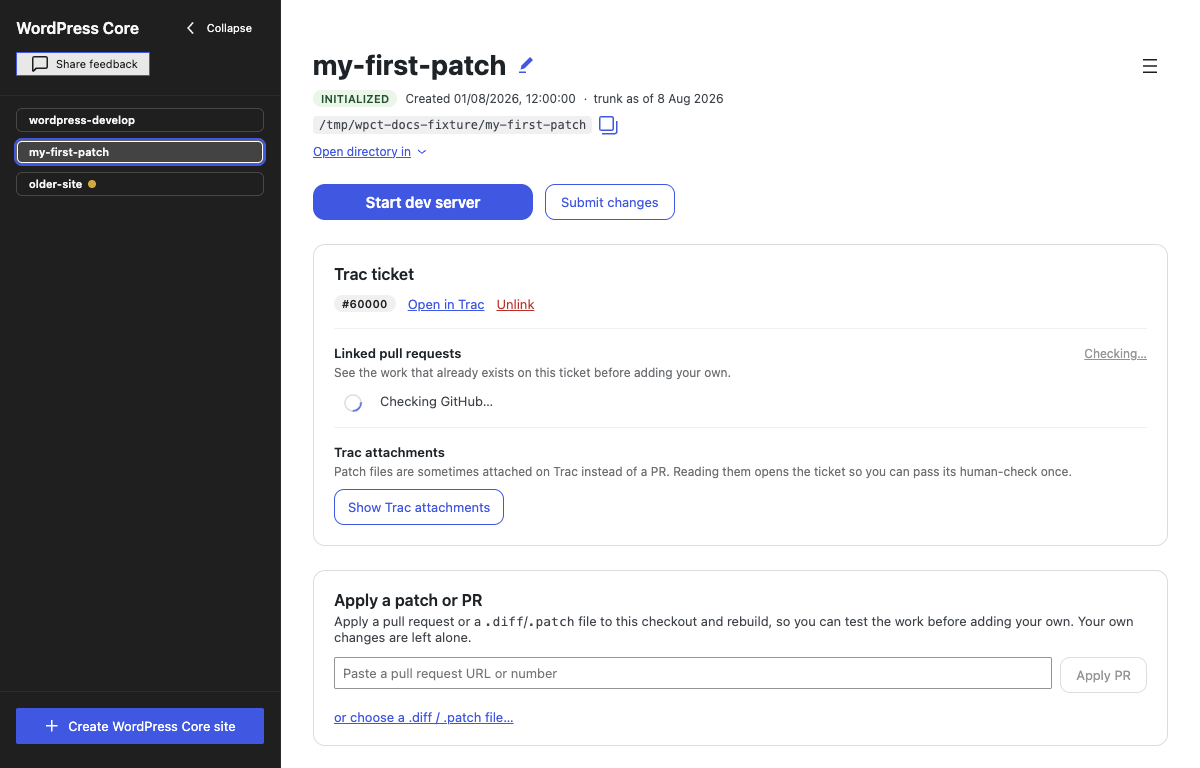
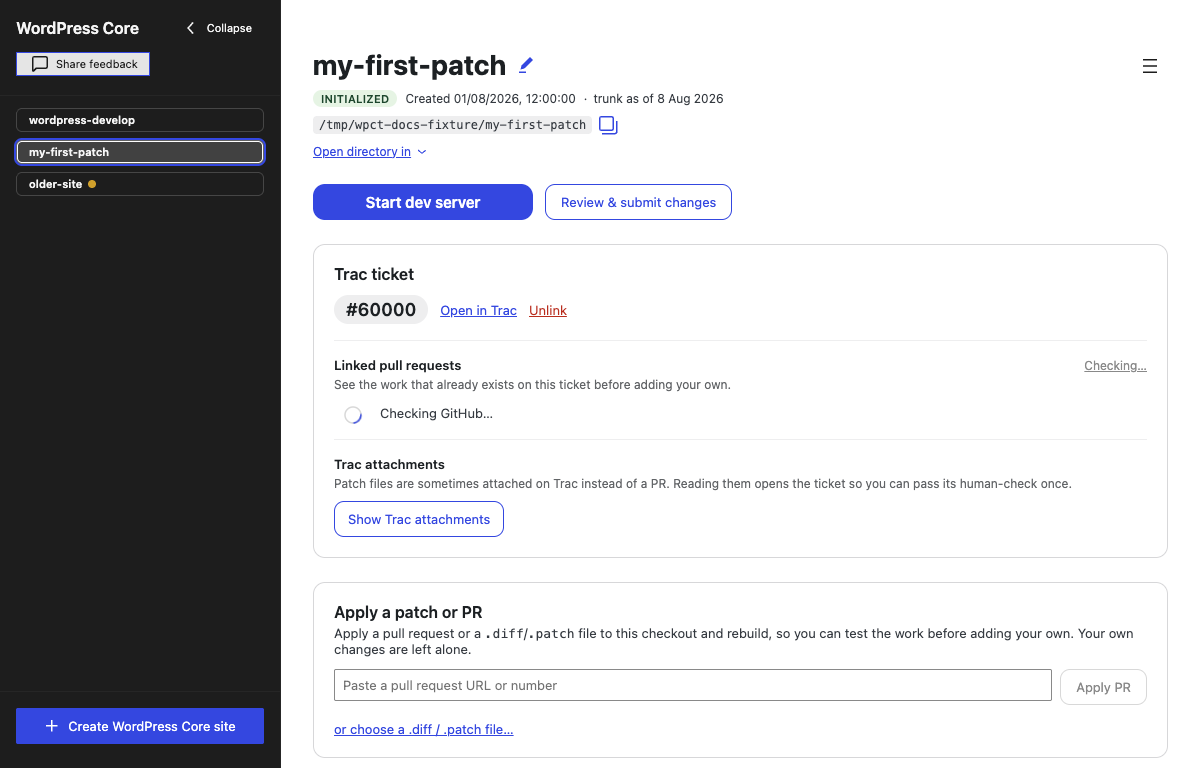
Document the site-holds-many-tickets model, and correct the guide pages that predate it (#245)
> [!WARNING]
> **Do not merge this before the ticket-branches stack (#168 #185 #198
#205 #218 #238 #241 #242 #243).** It documents features that are not on
trunk yet. Merged first, the published guide describes an app nobody can
download.

## Why

The user guide describes a site as one working tree and one implicit
patch, because that is what the app was when the guide was written. The
ticket-branches stack makes a ticket a branch on the site, which leaves
several pages not merely incomplete but wrong: what a patch contains,
what **Unlink** costs you, what a trunk update does to work in progress,
whether the applied-patch banner describes the ticket you are looking
at.

The stack also adds surface nothing documents at all — the tickets card,
the question asked about edits made before a ticket was picked, the note
about unsubmitted work, the switch progress line, coloured pull request
states.

## What changes

Docs only. The diff is `docs/` — guide pages,
`docs/.vitepress/config.mjs` for the sidebar, and screenshots. No
`src/`, no `scripts/`.

**New page: `guide/ticket-branches.md`, "Working on several tickets".**
The model (a site is the expensive substrate, a ticket is a cheap
branch), starting a second ticket, the tickets card in both its states,
what a switch says while it runs and what to do when one fails part-way,
deleting one ticket's work, the four-choice question about loose trunk
edits, the unsubmitted-work note, and what a ticket's patch does and
[…]

diff --git a/docs/guide/ticket-branches.md b/docs/guide/ticket-branches.md
@@ -1,0 +1,100 @@
+# Working on several tickets
+
+You do not need a second site to work on a second ticket.
+
+A site is the expensive part: a clone of `wordpress-develop`, an `npm install`, and a first build — minutes of work, and the thing this app exists to spare you. A ticket is the cheap part. Each ticket you link gets its own branch inside the site, so moving between them is a file swap that takes seconds rather than another clone and another install.
+
+Each ticket keeps its own work. What you edited for one ticket is not in the tree while you are on another, and the patch you submit for a ticket contains only that ticket's changes.
+
+![A site with two tickets: the Trac ticket card for the one in hand, and an Other tickets on this site card under it](/screenshots/site-with-tickets.png)
+
+## Starting a second ticket
+
+While a ticket is linked, the **Trac ticket** panel shows that ticket rather than a field to type another one into. So starting a second ticket is two steps:
+
+1. Click **Unlink**. Your work on the first ticket is parked on its branch and the site returns to trunk — nothing is lost, and the ticket appears under **Your tickets on this site**.
+2. Type the second ticket's number into the field that is now back, and click **Link ticket**.
+
+Nothing is installed and nothing is rebuilt: `node_modules` and the database belong to the site, and both stay exactly as they are.
+
+The `build/` directory belongs to the site too, which has a consequence. A switch changes the source under `src/`, but it does not rebuild — so a dev server that is running keeps serving the assets built for the ticket you just left. Run `npm run build` in the [Terminal](./terminal) after switching if you want to see the other ticket's changes in the browser. The site view says the same thing: *Edited files in `src/`? Run `npm run build` so the site picks them up.*
+
+## Your tickets on this site
+
+The site's tickets get their own card, between the **Trac ticket** card and **Apply a patch or PR**. Like those two, it appears once the [setup checklist](./setup-wizard) is finished or skipped, and only when the site has work on a ticket other than the one you are on — a site with nothing else to offer does not get an empty card.
+
+With a ticket linked, the card is headed **Other tickets on this site**, and each row offers to **switch**:
+
+![The Other tickets on this site card: "You also have work on #61002 — switch", with "Delete this ticket's work" beside it](/screenshots/ticket-list-card.png)
+
+With no ticket linked, the same card is headed **Your tickets on this site**, and each row is a **Continue working on #NNNNN** link. This is how you come back to a ticket without having to remember its number:
+
+![The Your tickets on this site card, listing two tickets to continue working on, most recently used first](/screenshots/ticket-list-unlinked.png)
+
+Rows are listed most recently used first, with **edited 2 days ago** underneath — and after a week, the date itself. Every control on the card is disabled while an install, a build or a [trunk update](./trunk-updates) is running, because all three are writing to the same working directory a switch would swap.
+
+## What a switch says while it runs
+
+A switch is a scan of the working tree followed by a checkout. On a real `wordpress-develop` that is seconds, not minutes, but it is long enough that a silent window looks like a hung one — so the panel narrates it, under a spinner:
+
+- **Saving your work on #59234…** — the ticket you are leaving is being committed to its branch. This is the part worth waiting out: it is the stretch where your edits are written down.
+- **Checking which files change…**
+- **Swapping files for #61002… 63%**
+- **Ready to work on #61002**
+
+If the file swap itself fails part-way — an editor or an antivirus holding a file open is the usual cause — the app marks the site and refuses every further ticket action with *A previous switch from … to … did not finish. Retry it before making other changes*. The refusal is on the switch too, so the way out is **Unlink**, which is the one action it allows: that puts you back on trunk, and you can then link the ticket you wanted. Your work on the ticket you were leaving is not at risk; it was committed to its branch before any file moved.
+
+Do not force-quit during a switch. A killed process writes no such marker, so the half-swapped tree is left behind with nothing saying so.
+
+## Deleting a ticket's work
+
+**Delete this ticket's work**, on each row, throws that ticket's branch away — every change you made for it, whether or not you ever submitted it. It asks first: *Delete all work on #61002 on this site? This cannot be undone.* There is no undo afterwards.
+
+The card only lists tickets you are not on, so this is never offered for the ticket in hand. To throw away the one you are working on, **Unlink** it first; its row then appears with the rest.
+
+Deleting is deliberately a different gesture from switching, and from unlinking. **Unlink** on the **Trac ticket** panel only puts the site back on trunk: the ticket's work stays on its branch, and the ticket reappears under **Your tickets on this site**, ready to continue.
+
+## Edits you made before picking a ticket
+
+If you started editing before you linked a ticket, those edits are on trunk, which the app never commits to. So when you link a ticket, it stops and asks what should happen to them:
+
+![The question panel: "You have 1 uncommitted change on this site, not on any ticket yet. What should happen to them?" with four choices](/screenshots/trunk-work-question.png)
+
+- **Take these edits into #NNNNN** — the edits come along and become part of that ticket's work. This is the answer for *I started editing, then realised which ticket this is*.
+- **Save them as a patch, then start clean…** — the app asks where to save a `.diff`, then discards the edits and links the ticket. Cancelling the save dialog cancels the whole option and leaves everything as it was.
+- **Discard them and start clean** — the edits are lost; this cannot be undone, and it asks again before doing it.
+- **Cancel** — nothing happens. No branch is created and no ticket is linked.
+
+**Take these edits into #NNNNN** is offered only for a ticket this site has not worked on yet. A ticket that already has a branch has its own work waiting to be restored, so loose edits cannot ride into it; the panel says so, and the other three choices stay.
+
+When the edits do come along, the panel says where they went: *Your 1 uncommitted change came along into #62281, and will go into its patch.*
+
+![The Trac ticket card after the carry, with a blue notice confirming the edits came along into the ticket](/screenshots/carried-work-notice.png)
+
+If you saved them instead, the confirmation names the file — *Your edits were saved to … and are no longer in the working tree* — and stays on screen after the switch, so the path does not vanish with the panel that offered it.
+
+Linking a ticket from a clean tree asks nothing and shows nothing. There is a standing line under the **Link ticket** field to say the question exists: *If you have edited anything already, you will be asked what should happen to those edits.*
+
+## Unsubmitted work for the ticket you are on
+
+Once a ticket has changes that have not been submitted anywhere, the **Trac ticket** card says so:
+
+> You have 1 unsubmitted change for ticket #29798. You can **review and submit** or **discard your changes**.
+
+This counts the ticket's whole work — including everything parked when you last switched away, which is most of it if you move between tickets. It is measured the same way [the patch](./submitting-changes) is, so the note and the diff are two readings of one walk rather than two answers. The count is of everything the patch speaks about, which includes the files it can only [name rather than carry](./submitting-changes#what-a-patch-can-and-cannot-carry): change nothing but an image and the note still says one unsubmitted change, while the diff itself is empty.
+
+Under it is the reassurance that matters here: unlinking the ticket does not touch those changes. They stay attached to the ticket in this site, ready for when you link it again.
+
+## What a patch contains
+
+A patch is everything on the ticket's branch since the point it was created — only that ticket's work, never another's, and never a change that arrived from a trunk update.
+
+That last point has a consequence worth knowing. A ticket branch keeps the snapshot of trunk it was born on, even after you [update the site to the latest trunk](./trunk-updates). The patch stays correct against that snapshot, which is what keeps it free of upstream changes you did not write — but a branch you started weeks ago produces a patch that may no longer apply to today's trunk.
+
+The app has no way to replay an old ticket branch onto a newer trunk. Doing it by hand means, in order: [update the site to the latest trunk](./trunk-updates) so there is a newer snapshot to branch from; save the ticket's patch from **Review & submit changes**; **Unlink** the ticket, so its row appears on the tickets card and **Delete this ticket's work** becomes available for it — the card never offers to delete the ticket you are on; link the ticket again, which creates a fresh branch on the updated trunk; and [apply the saved patch](./applying-patches) to it.
+
+## Next steps
+
+- [Working on a Trac ticket](./trac-tickets)
+- [Submitting your changes](./submitting-changes)
+- [Staying up to date with trunk](./trunk-updates)

diff --git a/docs/guide/trac-tickets.md b/docs/guide/trac-tickets.md
@@ -13,18 +13,32 @@ The ticket is stored with the site, so it survives restarts. You can change or r
 
 If you do not have a ticket yet, click **Not sure yet? Browse good first bugs on Trac** to open Trac's curated ticket lists in your browser.
 
+Linking a ticket gives it its own branch inside the site, so the work you do for it is kept apart from every other ticket on that site. A site can hold as many tickets as you like — see [Working on several tickets](./ticket-branches).
+
+If you have edited anything before linking, the app asks what should happen to those edits rather than deciding for you. The four choices are described under [Edits you made before picking a ticket](./ticket-branches#edits-you-made-before-picking-a-ticket).
+
 Once a ticket is linked, the panel shows its number with two actions:
 
 - **Open in Trac** — opens the ticket in your browser.
-- **Unlink** — removes the link. Nothing on Trac is affected; only the app forgets the association.
+- **Unlink** — removes the link and puts the site back on trunk. Nothing on Trac is affected, and nothing you did for the ticket is lost: the work stays attached to the ticket in this site, and the ticket moves to the **Your tickets on this site** card, ready to continue.
+
+## Unsubmitted work
+
+When the linked ticket has changes you have not submitted anywhere, the panel says so — *You have 1 unsubmitted change for ticket #29798* — with links to **review and submit** or **discard your changes**.
+
+The count is the ticket's whole work, including everything parked when you last switched away from it, and it is measured the same way [the patch](./submitting-changes) is — the note and the diff read the same walk of your files.
 
 ## Linked pull requests
 
-The panel searches GitHub for pull requests on `WordPress/wordpress-develop` that cite the ticket number, and lists them newest first. Each row shows the PR number (click it to open the PR in your browser), its title, whether it is open or closed, and when it was last updated. Click **Refresh** to search again.
+The panel searches GitHub for pull requests on `WordPress/wordpress-develop` that cite the ticket number, and lists them newest first. Each row shows the PR number (click it to open the PR in your browser), its title, its state, and when it was last updated. Click **Refresh** to search again.
+
+![The Trac ticket panel with two linked pull requests, one carrying a red CLOSED pill and one a green OPEN pill](/screenshots/linked-pull-requests.png)
+
+The state is a coloured pill, in GitHub's own three colours: green **OPEN**, purple **MERGED**, red **CLOSED**. Red here is a label and not a warning — a closed pull request is an outcome, not a failure. Merged is rare on `wordpress-develop`, where a pull request is opened for review and the change usually lands as a commit instead.
 
 Each pull request has an **Apply…** button, which fetches its diff and shows you a preview before anything is changed — see [Applying patches and PRs](applying-patches).
 
-The search uses GitHub's unauthenticated API, which allows 60 requests per hour from your machine. If the limit is spent or you are offline, the panel says so and falls back to the last list it saw, noting when that was.
+The search uses GitHub's unauthenticated API, which allows 60 requests per hour from your machine. If the limit is spent or you are offline, the panel says so and falls back to the last list it saw, noting when that was. A pull request that changed state since then keeps its old pill until the next successful lookup.
 
 ## Trac attachments
 
@@ -45,5 +59,6 @@ When a ticket has both pull requests and attachments, the panel marks the most r
 
 ## Next steps
 
+- [Work on more than one ticket in the same site](ticket-branches)
 - [Apply a patch or PR to your site](applying-patches)
 - [Submit your own changes](submitting-changes)

diff --git a/docs/guide/submitting-changes.md b/docs/guide/submitting-changes.md
@@ -1,17 +1,34 @@
 # Submitting your changes
 
-When your change works and you want to contribute it, open the **Submit changes** screen. It shows your work as a patch and, next to it, the places that patch can go.
+When your change works and you want to contribute it, open the **Review & submit changes** screen. It shows your work as a patch and, next to it, the places that patch can go.
 
 ## Your changes
 
-The left side of the screen is the diff, titled **Your changes** — everything this site has that its copy of trunk does not. This is exactly what will be submitted, so read it before choosing a destination.
+The left side of the screen is the diff, titled **Your changes**. This is exactly what will be submitted, so read it before choosing a destination.
+
+What it contains is the work on the ticket you are on, and only that: everything the ticket's branch has gained since it was created, including whatever was parked the last time you switched away from it. Another ticket's work is never in it, and neither is a change that arrived from a [trunk update](trunk-updates). On a site with no ticket linked, it is simply everything the checkout has that its copy of trunk does not.
 
 Two buttons sit above the diff:
 
 - **Save** — saves the diff as a patch file wherever you choose.
 - **Copy** — copies the whole diff to the clipboard.
 
-If the site has no changes against its copy of trunk, the screen says there is nothing to send yet. If the site's WordPress code is old, a warning says the patch may not apply on Trac and suggests updating to the latest trunk first — see [Staying up to date with trunk](trunk-updates).
+If there are no changes to send, the screen says so. If the site's WordPress code is old, a warning says the patch may not apply on Trac and suggests updating to the latest trunk first — see [Staying up to date with trunk](trunk-updates).
+
+## What a patch can and cannot carry
+
+The patch carries files you added, files you edited, and files you deleted. A deletion is written the way `git apply` and `patch` expect one, so a reviewer applying your patch really does lose the file.
+
+Some things a text diff cannot represent. Images and other binary files are one, and so is a file the app could not read. Those are not dropped in silence: they are named in `#` comment lines above the diff, for example
+
+```
+# 1 file is not in this patch — a text diff cannot carry binary content:
+#   src/wp-includes/images/example.png
+```
+
+Tools that apply patches skip those lines, so the patch still applies; the point of them is that you know what to attach or mention by hand. If a binary file is the *only* thing you changed, there is no diff to attach and the screen offers no destination.
+
+The one gap left: adding or deleting an empty file is still not represented in the patch.
 
 ## Where this patch goes
 

diff --git a/docs/guide/submit-trac.md b/docs/guide/submit-trac.md
@@ -4,7 +4,7 @@
 
 ## What the app does, and what you do
 
-The app does not post to Trac on your behalf — that would mean it holding a WordPress.org session, which it deliberately never does. Instead, the destination on the [Submit changes](submitting-changes) screen splits the work:
+The app does not post to Trac on your behalf — that would mean it holding a WordPress.org session, which it deliberately never does. Instead, the destination on the [Review & submit changes](submitting-changes) screen splits the work:
 
 1. Click **Save, then open #NNNNN**.
 2. The app saves your patch as a file wherever you choose.
@@ -19,6 +19,8 @@ The saved file is the plain diff shown under **Your changes** — no header is a
 
 The card says there is nowhere to attach the patch yet, and offers the same field as the [Trac ticket panel](trac-tickets): type the ticket number or URL and click **Link ticket**. The ticket is stored with the site, and the **Save, then open** button appears in its place.
 
+It is the same field in every respect, so if you have edits that are not on any ticket yet, the same question appears here — see [Edits you made before picking a ticket](ticket-branches#edits-you-made-before-picking-a-ticket).
+
 ## What happens afterwards
 
 No automated checks run on a Trac attachment. It is common for a reviewer to then ask for the same change as a pull request, where the test suite runs — if that happens, the [pull request destination](submit-github-pr) sends the identical diff.
@@ -27,4 +29,4 @@ After uploading, leave a comment on the ticket saying what the patch does and ho
 
 ## Before you attach
 
-If the warning at the top of the **Submit changes** screen says your site's WordPress code is old, the patch may not apply cleanly on Trac. Update to the latest trunk first — see [Staying up to date with trunk](trunk-updates) — and check your change still works.
+If the warning at the top of the **Review & submit changes** screen says your site's WordPress code is old, the patch may not apply cleanly on Trac. Update to the latest trunk first — see [Staying up to date with trunk](trunk-updates) — and check your change still works.

diff --git a/docs/guide/managing-sites.md b/docs/guide/managing-sites.md
@@ -32,16 +32,18 @@ The ☰ menu at the top right of the site view contains:
   it stay on disk; you can add the folder back later.
 - **Delete this site** — removes the site from the list **and deletes its directory from disk**.
   This cannot be undone. The app will only ever delete a directory it has on record as a site —
-  never an arbitrary path.
+  never an arbitrary path. It takes every ticket's work in the site with it; to throw away one
+  ticket and keep the rest, use **Delete this ticket's work** on the tickets card instead — see
+  [Working on several tickets](./ticket-branches#deleting-a-ticket-s-work).
 
 Both **Forget** and **Delete** ask for confirmation first. If you are unsure which you want:
 forget is reversible, delete is not.
 
 ## Updating with uncommitted changes
 
-If you start **Update to latest trunk** while the site has local edits, the app does not silently
-throw them away. A dialog titled **Update to latest trunk?** lists every changed file and offers
-two choices:
+If you start **Update to latest trunk** while the site has edits loose in the working tree, the app
+does not silently throw them away. A dialog titled **Update to latest trunk?** lists every changed
+file and offers two choices:
 
 - **Save them as a patch first (as a local file)** — writes a `.diff` to your machine, then
   updates. Nothing is sent to Trac.
@@ -50,3 +52,7 @@ two choices:
 Confirm with **Save patch & update** or **Discard & update**, or **Cancel** to keep everything as
 it is. If you meant to keep the changes as a contribution instead, see
 [Submitting your changes](./submitting-changes).
+
+Work that is already parked on a ticket branch is never what this dialog is offering to discard —
+the update carries it across untouched. See
+[Updating while you are on a ticket](./trunk-updates#updating-while-you-are-on-a-ticket).

diff --git a/docs/guide/getting-started.md b/docs/guide/getting-started.md
@@ -42,13 +42,17 @@ The app is signed and notarized by Automattic, so macOS should open it without i
 5. Click **Start dev server**.
 6. A browser window opens automatically. If not, open it by clicking the site URL.
 7. Make changes to the code — [open the site in your editor](./editors) straight from the app.
-8. Click **Submit changes** to see a diff of everything you changed.
+8. Click **Review & submit changes** to see a diff of everything you changed.
 9. Pick where the patch goes: [a pull request](./submit-github-pr), [a Trac ticket](./submit-trac), or [a file for your mentor](./submit-mentor).
 10. That's it — you've contributed to WordPress core.
 
-![A site ready for work: Start dev server, Submit changes, the Trac ticket panel and the patch panel](/screenshots/site-view.png)
+![A site ready for work: Start dev server, Review & submit changes, the Trac ticket panel and the patch panel](/screenshots/site-view.png)
 
 The rest of this guide walks through each of these screens in detail, starting with [creating a site](./creating-a-site).
+
+::: tip A second ticket does not need a second site
+Every ticket you link gets its own branch inside the site and keeps its own work, so moving between two of them takes seconds instead of another clone and another install. See [Working on several tickets](./ticket-branches).
+:::
 
 ::: tip You never need a new site to get newer code
 **Update to latest trunk**, in the ☰ menu at the top right of any site, is available at any time on any site, however old: it fetches the latest trunk, reinstalls dependencies if they changed, and rebuilds. See [Staying up to date with trunk](./trunk-updates).

diff --git a/docs/guide/trunk-updates.md b/docs/guide/trunk-updates.md
@@ -29,6 +29,14 @@ The update always shows the same three steps in a progress card, with a "step N 
 
 When the chain finishes, a green summary reads **Up to date with trunk as of today.**, along with whether dependencies changed, how long the rebuild took, and the path of any saved patch. Updating typically takes a few minutes.
 
+## Updating while you are on a ticket
+
+An update moves trunk, and your ticket's work is not on trunk — so the app steps around it. The terminal says *Parking your work on ticket/59234 before updating…*, the three steps run against trunk, and then *Returning to your work on ticket/59234…* puts you back where you were, with the ticket still linked and its changes still in the tree.
+
+The dialog in step 1 only ever concerns edits that are loose in the working tree. Work already parked on a ticket branch is never what it is offering to save or discard.
+
+What an update does not move is the snapshot your ticket branch was created on. That is deliberate — it is what keeps your patch free of the upstream changes the update just brought in — but it means an old ticket's patch does not get any newer by updating the site. See [Working on several tickets](./ticket-branches#what-a-patch-contains).
+
 ## Staleness dots and notices
 
 The app flags sites that have fallen behind with a coloured dot next to the site name in the sidebar:

diff --git a/docs/guide/applying-patches.md b/docs/guide/applying-patches.md
@@ -29,11 +29,17 @@ The panel shows each step as it runs: applying the patch, installing dependencie
 
 If a step fails, the error says what went wrong and the checkout was not changed.
 
+## Applied patches belong to a ticket
+
+What is applied is recorded against the ticket you are on, not against the site. Switch to another ticket and the green "applied" box goes with the first one; switch back and it is there again, describing the patch you actually applied on that ticket. See [Working on several tickets](ticket-branches).
+
 ## Reverting an applied patch
 
 While a patch is applied, the panel shows it in a green box with a **Revert this patch** button. Reverting removes the patch's changes and rebuilds, again leaving your own edits alone.
 
 Very large patches cannot be undone automatically. The panel says so; use **Update to latest trunk** to reset the checkout instead — see [Staying up to date with trunk](trunk-updates).
+
+That escape hatch only resets a site sitting on trunk. On a ticket, an update parks your branch before it resets trunk and checks the branch back out afterwards — applied patch and all — so it leaves you where you were. On a ticket, the way to be rid of both the patch and the work under it is [deleting that ticket's work](ticket-branches).
 
 ## Your own changes
 

diff --git a/docs/guide/troubleshooting.md b/docs/guide/troubleshooting.md
@@ -15,6 +15,20 @@ the site may not run correctly until install and build succeed. Click **Retry in
 in the notice. If it fails again, the reason is in the [Terminal](./terminal) output — a network
 drop during `npm install` is the most common cause.
 
+## "A previous switch … did not finish"
+
+A ticket switch whose file swap died part-way leaves the checkout half of one ticket and half of
+the other, so the app refuses further ticket actions rather than committing the mixture:
+**A previous switch from … to … did not finish. Retry it before making other changes.**
+
+The refusal covers switching too, so the way out is **Unlink** on the **Trac ticket** panel — the
+one action it still allows. That puts the site back on trunk, and you can link the ticket you
+wanted from there. Nothing is lost: the work on the ticket you were leaving was committed to its
+branch before any file moved. See [Working on several tickets](./ticket-branches).
+
+The usual cause is a file held open by an editor or an antivirus scanner during the swap. Closing
+whatever had the checkout open before retrying makes a repeat less likely.
+
 ## The dev server won't start
 
 Starting the server can legitimately take a while — booting WASM PHP on a slow machine can take

diff --git a/docs/guide/setup-wizard.md b/docs/guide/setup-wizard.md
@@ -39,6 +39,6 @@ Steps also lock temporarily while a [trunk update](./trunk-updates) is running, 
 
 ## Skipping the wizard
 
-Below the checklist is a **Skip initialization wizard** link. Clicking it hides the checklist for this site, for good, and shows the compact action bar instead: the dev server start/stop button, **Submit changes**, and — while the server is running — **Open Adminer**.
+Below the checklist is a **Skip initialization wizard** link. Clicking it hides the checklist for this site, for good, and shows the compact action bar instead: the dev server start/stop button, **Review & submit changes**, and — while the server is running — **Open Adminer**.
 
 Skipping does not run any of the steps for you. If the dependencies were never installed or the build never ran, the dev server will not have anything to serve, so only skip on a site you know is already set up (for example, a `wordpress-develop` checkout you prepared outside the app). For everything else, finishing step 4 gets you to the same action bar with the work actually done.

diff --git a/docs/guide/creating-a-site.md b/docs/guide/creating-a-site.md
@@ -2,6 +2,8 @@
 
 A site is your own copy of `wordpress-develop`, the WordPress core development repository, cloned into a folder you choose. You can create as many sites as you like — each one is an independent checkout with its own working tree.
 
+You do not need one, though, for every ticket you work on. A site holds as many tickets as you like, each on its own branch, and moving between them costs seconds rather than another clone and another build — see [Working on several tickets](./ticket-branches). Create a second site when you want a genuinely separate environment: a different snapshot of trunk, or somewhere to test a patch without disturbing the site you are working in.
+
 When the app starts with no sites, the main area shows a short prompt to create your first one.
 
 ![The app before any site exists: an empty main area and the Create WordPress Core site button at the bottom of the sidebar](/screenshots/empty-state.png)

diff --git a/docs/guide/submit-github-pr.md b/docs/guide/submit-github-pr.md
@@ -1,6 +1,6 @@
 # Opening a pull request
 
-**Open a pull request** is the one destination on the [Submit changes](submitting-changes) screen where the app does the sending: it forks `wordpress-develop` to your GitHub account, pushes your change to a branch there, and opens the pull request — all through GitHub's API, as a single commit.
+**Open a pull request** is the one destination on the [Review & submit changes](submitting-changes) screen where the app does the sending: it forks `wordpress-develop` to your GitHub account, pushes your change to a branch there, and opens the pull request — all through GitHub's API, as a single commit.
 
 You need a GitHub account, and the site must have a [linked Trac ticket](trac-tickets) — a core pull request has to cite one. The app cannot create the GitHub account for you, and it cannot post to Trac on your behalf.
 
